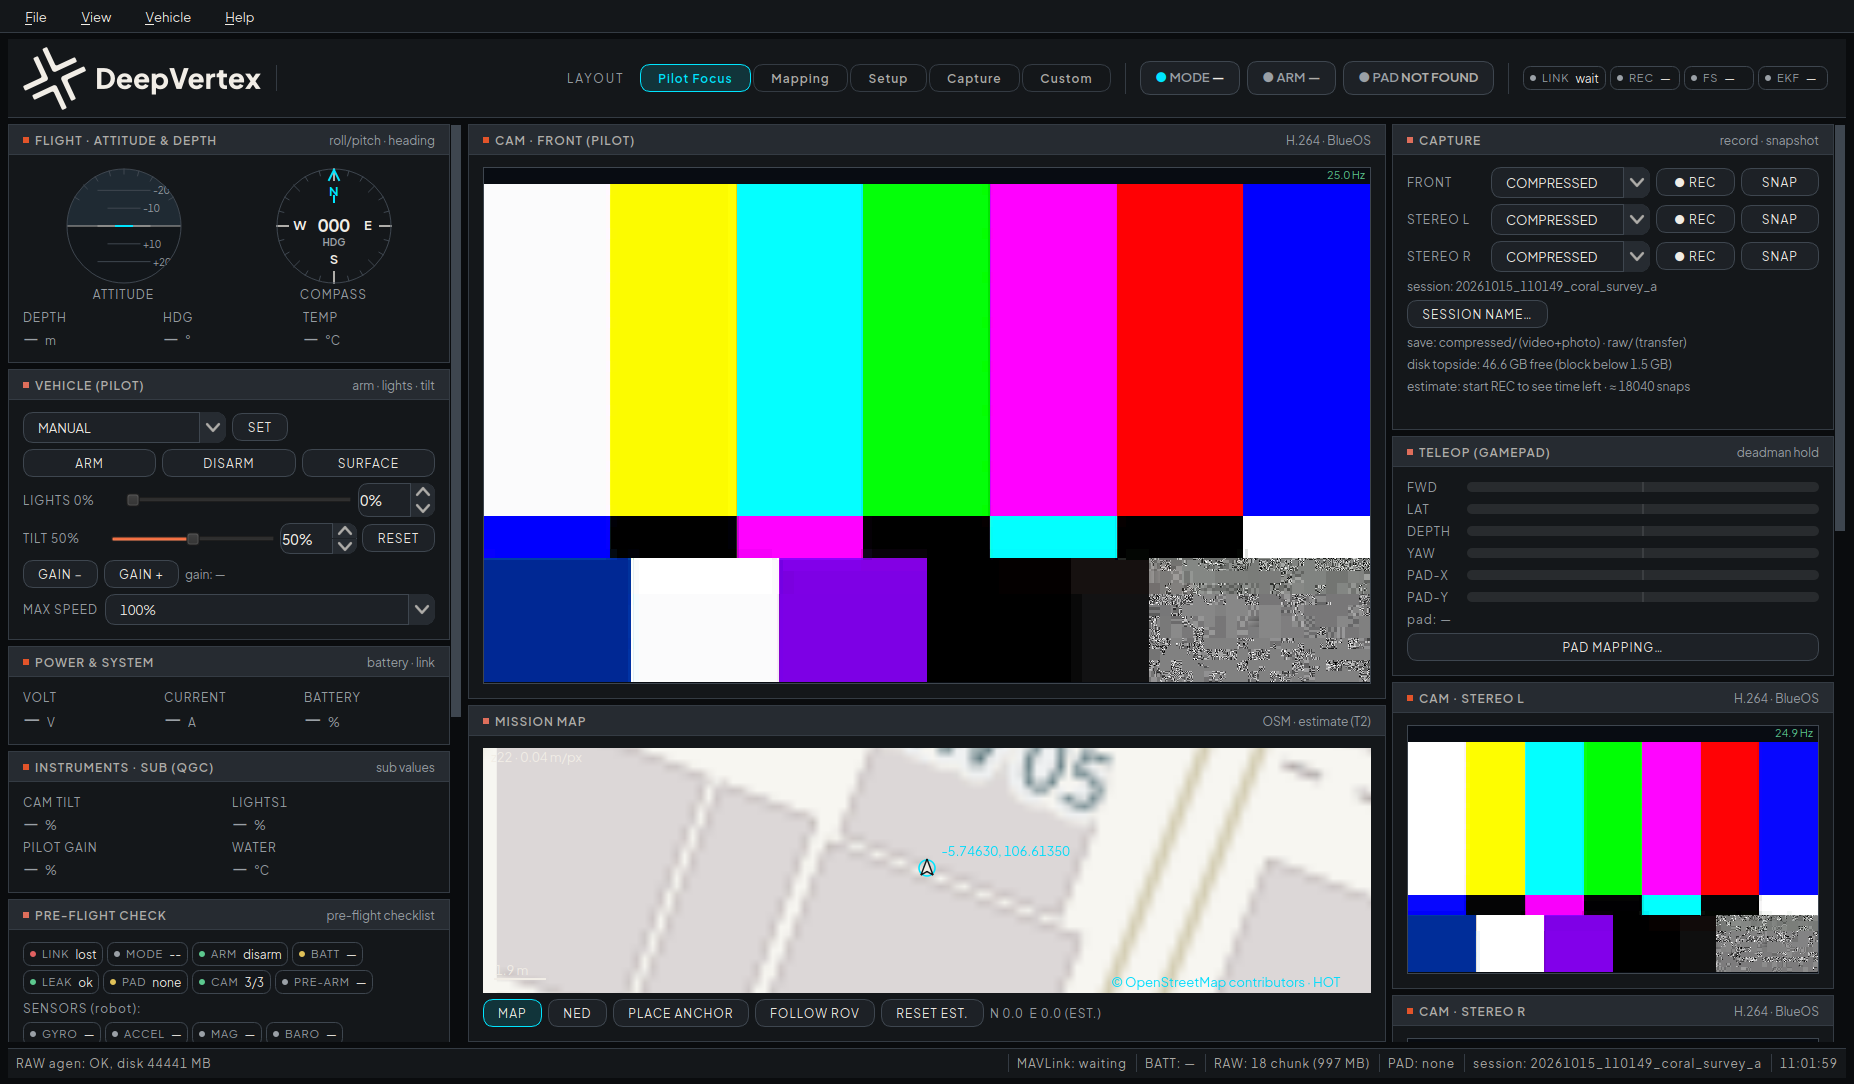
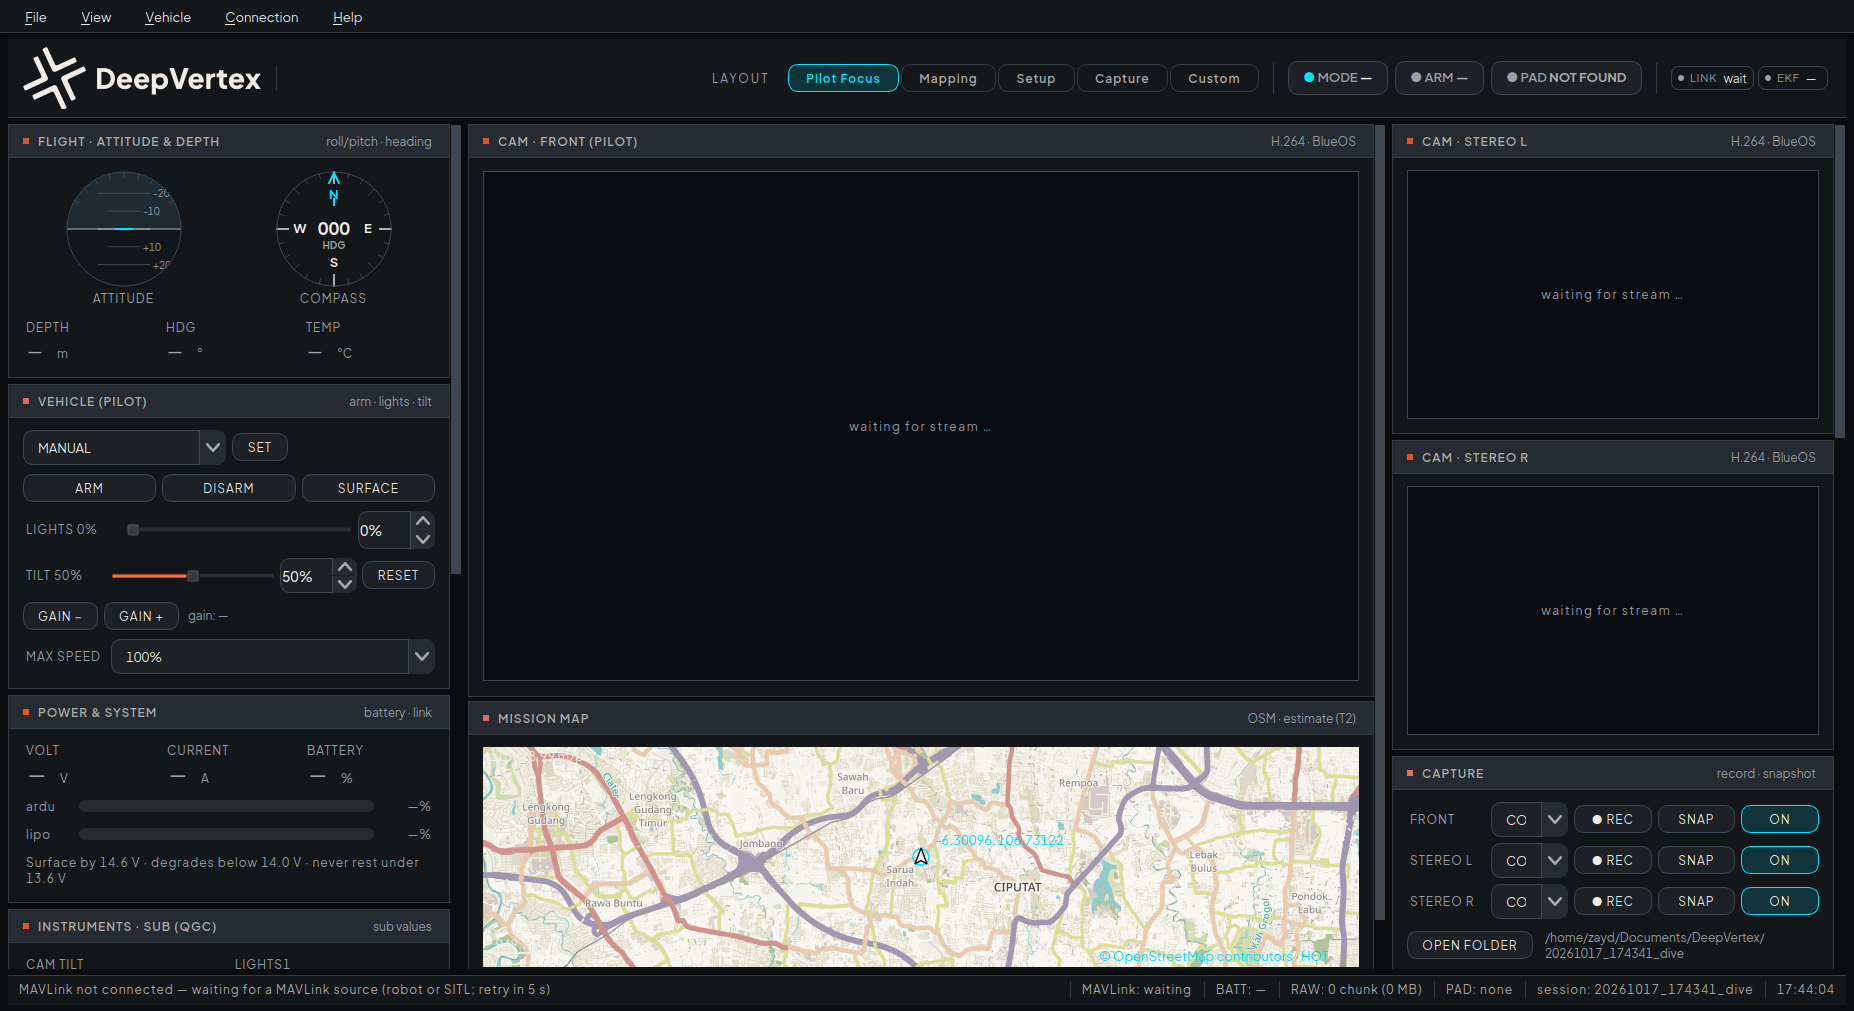
docs: fresh GUI screenshot (Pilot Focus) + version badge to 1.1.7

diff --git a/README.md b/README.md
@@ -15,7 +15,7 @@ pre-flight sensor health, failsafe management, and calibration tools — designe
 run by a dive crew, not by a software engineer.
 
 [![CI](https://github.com/ZaydZaidan/deepvertex-console/actions/workflows/ci.yml/badge.svg)](https://github.com/ZaydZaidan/deepvertex-console/actions/workflows/ci.yml)
-![Version](https://img.shields.io/badge/version-1.0.0-00b3d6)
+![Version](https://img.shields.io/badge/version-1.1.7-00b3d6)
 ![Platform](https://img.shields.io/badge/platform-Ubuntu%2024.04-333)
 ![License](https://img.shields.io/badge/license-PolyForm%20Strict-7048e8)
 ![BlueOS](https://img.shields.io/badge/BlueOS-compatible-1f6feb)
